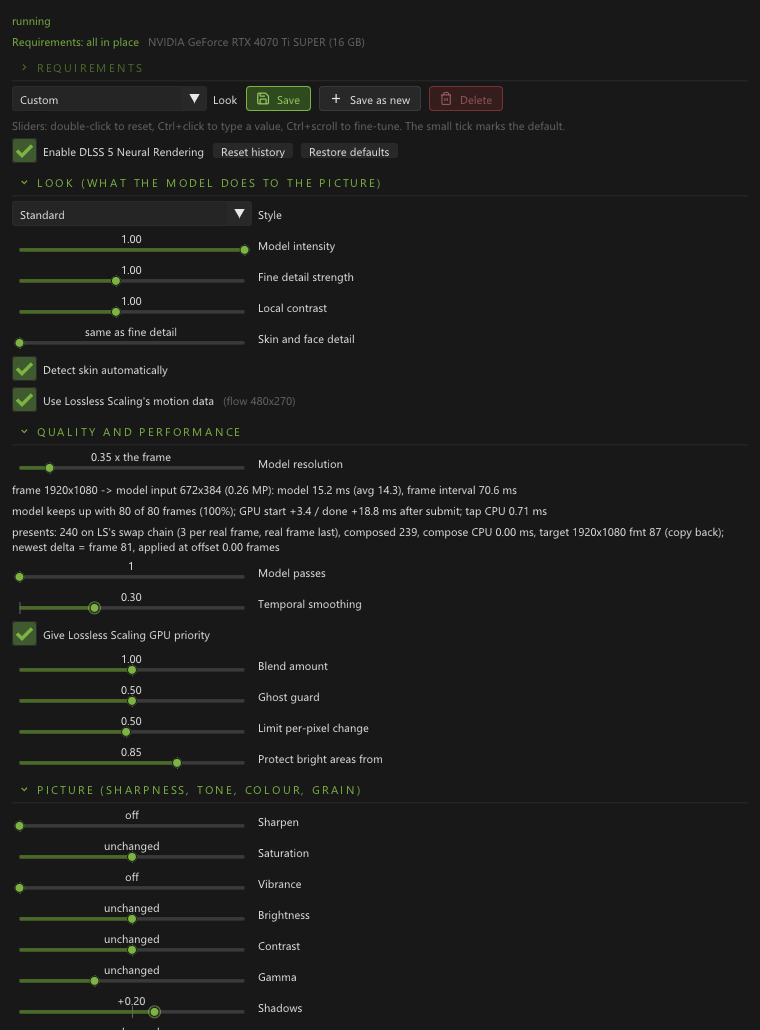
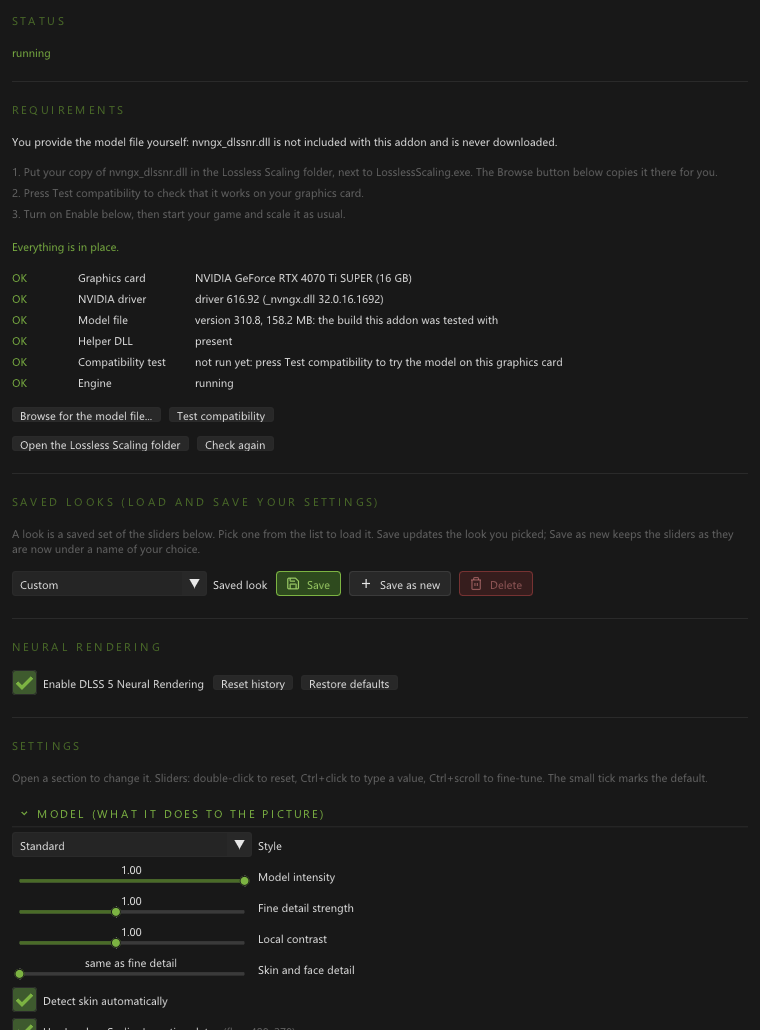
Neural Rendering panel and docs cleanup: titled blocks, always-open requirements, clear save/load, provide-your-own-file notice
Panel: Status, Requirements (always open, numbered instructions, verdict, rows, main actions first), Saved looks
(load and save your settings, explained), Neural Rendering (switch), Settings. Look list labelled Saved look; first
slider section renamed Model. Notice that the user provides nvngx_dlssnr.dll at the top of both READMEs, in
INSTALL.txt and in the addon description. Settings tab: Backup and restore (save and load your settings) with a
description. README pictures regenerated.

diff --git a/addons/DLSS5NR01/src/addon/addon.cpp b/addons/DLSS5NR01/src/addon/addon.cpp
@@ -171,6 +171,13 @@ static void Note(const char* fmt, ...) {
     ImGui::TextWrapped("%s", b);
     ImGui::PopStyleColor();
 }
+// A titled block of the panel: some room, a thin line, the title in the small capitals of the other apps, and a little room under it.
+static void Block(const char* title, bool first = false) {
+    const float u = ImGui::GetFontSize();
+    if (!first) { ImGui::Dummy(ImVec2(0, u * 0.7f)); ImGui::Separator(); ImGui::Dummy(ImVec2(0, u * 0.5f)); }
+    lsp::SectionLabel(title);
+    ImGui::Dummy(ImVec2(0, u * 0.35f));
+}
 static void SetStatus(const char* s) { std::lock_guard<std::mutex> lk(g_statusMu); g_status = s; }
 static std::string GetStatus() { std::lock_guard<std::mutex> lk(g_statusMu); return g_status; }
 
@@ -754,6 +761,7 @@ LSPROXY_EXPORT void AddonRenderSettings() {
     // status
     std::string status = GetStatus(), frameInfo, adapterName; bool hasDisplay;
     { std::lock_guard<std::mutex> lk(g_statusMu); frameInfo = g_frameInfo; adapterName = g_adapterName; hasDisplay = g_hasDisplay; }
+    Block("Status", true);
     if (g_killed) { ImGui::PushStyleColor(ImGuiCol_Text, lsp::theme::V(lsp::theme::kDanger)); ImGui::Text("DISABLED: %s", g_killReason.c_str()); ImGui::PopStyleColor(); ImGui::SameLine(); if (ImGui::SmallButton("Re-arm")) { g_killed = false; g_watchdogHits = 0; g_watchdogKill = false; g_rearms = 0; } Tip("Turn Neural Render back on after it switched itself off. If it switches off again, the reason above is still true."); }
     else { ImGui::PushStyleColor(ImGuiCol_Text, g_nrRuns ? lsp::theme::V(lsp::theme::kAccent) : lsp::theme::V(lsp::theme::kWarn)); ImGui::Text("%s", status.c_str()); ImGui::PopStyleColor(); }
     if (g_engine.IsFailed()) { ImGui::TextColored(lsp::theme::V(lsp::theme::kDanger), "engine: %s", g_engine.Stats().lastError); ImGui::SameLine(); if (ImGui::SmallButton("Retry engine")) { g_engineLuidValid = false; if (g_tapLuidValid) StartEngine(g_tapLuid); } Tip("Try to start the DLSS model again on the current graphics card."); }
@@ -761,25 +769,27 @@ LSPROXY_EXPORT void AddonRenderSettings() {
         bool have; { std::lock_guard<std::mutex> lk(g_reqMu); have = g_reqHave; }
         const bool failed = g_engine.IsFailed();
         const req::Report rep = RequirementsNow(failed, g_engine.IsReady(), g_nrRuns > 0, g_engine.Stats().lastError);
-        // One line that is always there, even while the section below is folded: all in place, a note, or what stops it from running
-        if (!have) ImGui::TextDisabled("Requirements: checking...");
-        else if (rep.overall == req::Level::Missing) { ImGui::PushStyleColor(ImGuiCol_Text, lsp::theme::V(lsp::theme::kDanger)); ImGui::TextWrapped("Neural Rendering cannot run yet. %s", rep.headline.c_str()); ImGui::PopStyleColor(); }
-        else if (rep.overall == req::Level::Note) { ImGui::PushStyleColor(ImGuiCol_Text, lsp::theme::V(lsp::theme::kWarn)); ImGui::TextWrapped("Requirements: %s", rep.headline.c_str()); ImGui::PopStyleColor(); }
-        else { ImGui::TextColored(lsp::theme::V(lsp::theme::kAccent), "Requirements: all in place"); if (!rep.rows.empty()) { ImGui::SameLine(); ImGui::TextDisabled("%s", rep.rows[0].value.c_str()); } }
-        if (lsp::SectionHeader("Requirements", have && rep.overall != req::Level::Ok)) {
-            if (!have) ImGui::TextDisabled("Checking...");
+        Block("Requirements");
+        ImGui::TextWrapped("You provide the model file yourself: nvngx_dlssnr.dll is not included with this addon and is never downloaded.");
+        ImGui::Dummy(ImVec2(0, ImGui::GetFontSize() * 0.25f));
+        Note("1. Put your copy of nvngx_dlssnr.dll in the Lossless Scaling folder, next to LosslessScaling.exe. The Browse button below copies it there for you.");
+        Note("2. Press Test compatibility to check that it works on your graphics card.");
+        Note("3. Turn on Enable below, then start your game and scale it as usual.");
+        ImGui::Dummy(ImVec2(0, ImGui::GetFontSize() * 0.4f));
+        // the verdict, in one line
+        if (!have) ImGui::TextDisabled("Checking...");
+        else if (rep.overall == req::Level::Missing) { ImGui::PushStyleColor(ImGuiCol_Text, lsp::theme::V(lsp::theme::kDanger)); ImGui::TextWrapped("Not ready yet. %s", rep.headline.c_str()); ImGui::PopStyleColor(); }
+        else if (rep.overall == req::Level::Note) { ImGui::PushStyleColor(ImGuiCol_Text, lsp::theme::V(lsp::theme::kWarn)); ImGui::TextWrapped("Ready, with a note. %s", rep.headline.c_str()); ImGui::PopStyleColor(); }
+        else { ImGui::TextColored(lsp::theme::V(lsp::theme::kAccent), "Everything is in place."); }
+        ImGui::Dummy(ImVec2(0, ImGui::GetFontSize() * 0.3f));
+        {   // (always open)
             for (const auto& row : rep.rows) {
                 const ImVec4 col = row.level == req::Level::Ok ? lsp::theme::V(lsp::theme::kAccent) : (row.level == req::Level::Note ? lsp::theme::V(lsp::theme::kWarn) : lsp::theme::V(lsp::theme::kDanger));
                 ImGui::TextColored(col, row.level == req::Level::Ok ? "OK     " : (row.level == req::Level::Note ? "NOTE   " : "MISSING"));
                 ImGui::SameLine(ImGui::GetFontSize() * 5.2f); ImGui::Text("%s", row.label.c_str()); ImGui::SameLine(ImGui::GetFontSize() * 13.0f); ImGui::TextWrapped("%s", row.value.c_str());
                 if (!row.hint.empty()) { ImGui::Indent(ImGui::GetFontSize() * 1.7f); ImGui::PushStyleColor(ImGuiCol_Text, ImGui::GetStyleColorVec4(ImGuiCol_TextDisabled)); ImGui::TextWrapped("%s", row.hint.c_str()); ImGui::PopStyleColor(); ImGui::Unindent(ImGui::GetFontSize() * 1.7f); }
             }
-            if (ImGui::SmallButton("Check again")) ScanRequirements();
-            Tip("Look again at the graphics card, the NVIDIA driver, the model file and the helper DLL. Use it after putting a file in place.");
-            ImGui::SameLine();
-            if (ImGui::SmallButton("Open the Lossless Scaling folder")) ShellExecuteW(nullptr, L"open", g_lsDir.c_str(), nullptr, nullptr, SW_SHOWNORMAL);
-            Tip("Where the model file, nvngx_dlssnr.dll, goes: next to LosslessScaling.exe.");
-            ImGui::SameLine();
+            ImGui::Dummy(ImVec2(0, ImGui::GetFontSize() * 0.4f));
             const bool placing = g_placeBusy.load();
             if (placing) ImGui::BeginDisabled();
             if (ImGui::SmallButton(placing ? "Waiting for the file dialog..." : "Browse for the model file...")) BrowseAndPlace();
@@ -791,11 +801,20 @@ LSPROXY_EXPORT void AddonRenderSettings() {
             if (ImGui::SmallButton(testing ? "Testing..." : "Test compatibility")) RunSelfTestAsync();
             if (testing) ImGui::EndDisabled();
             Tip("Runs the model file once, in a separate program, on your graphics card, and says whether it works there. It uses the graphics card for a few seconds, so do it before you start a game. It cannot take Lossless Scaling down if the model misbehaves.");
+            ImGui::Dummy(ImVec2(0, ImGui::GetFontSize() * 0.15f));
+            if (ImGui::SmallButton("Open the Lossless Scaling folder")) ShellExecuteW(nullptr, L"open", g_lsDir.c_str(), nullptr, nullptr, SW_SHOWNORMAL);
+            Tip("Where the model file, nvngx_dlssnr.dll, goes: next to LosslessScaling.exe.");
+            ImGui::SameLine();
+            if (ImGui::SmallButton("Check again")) ScanRequirements();
+            Tip("Look again at the graphics card, the NVIDIA driver, the model file and the helper DLL. Use it after putting a file in place.");
             { std::string msg; bool ok; { std::lock_guard<std::mutex> lk(g_reqMu); msg = g_placeMsg; ok = g_placeOk; }
               if (!msg.empty()) { ImGui::PushStyleColor(ImGuiCol_Text, ok ? lsp::theme::V(lsp::theme::kAccent) : lsp::theme::V(lsp::theme::kWarn)); ImGui::TextWrapped("%s", msg.c_str()); ImGui::PopStyleColor(); } }
         }
     }
-    // ---- Saved looks, at the top. Pick one to apply it; Save updates it (or asks for a name); Save as new keeps the current sliders under a
+    Block("Saved looks (load and save your settings)");
+    Note("A look is a saved set of the sliders below. Pick one from the list to load it. Save updates the look you picked; Save as new keeps the sliders as they are now under a name of your choice.");
+    ImGui::Dummy(ImVec2(0, ImGui::GetFontSize() * 0.3f));
+    // ---- Saved looks. Pick one to apply it; Save updates it (or asks for a name); Save as new keeps the current sliders under a
     // ---- new name; Delete asks first. A look is the sliders below (model knobs, picture, HUD areas), not the hotkeys or advanced settings.
     {
         static int s_active = -1; static char s_name[48] = ""; static bool s_askSave = false, s_askDelete = false;
@@ -809,7 +828,7 @@ LSPROXY_EXPORT void AddonRenderSettings() {
         const bool modified = s_active >= 0 && datas[s_active] != now;
         const std::string label = s_active >= 0 ? names[s_active] + (modified ? "  (changed)" : "") : std::string("Custom");
         ImGui::SetNextItemWidth(ImGui::GetFontSize() * 13.0f);
-        if (ImGui::BeginCombo("Look", label.c_str())) {
+        if (ImGui::BeginCombo("Saved look", label.c_str())) {
             for (int i = 0; i < (int)names.size(); ++i)
                 if (ImGui::Selectable(names[i].c_str(), i == s_active)) {
                     const float was = c.p.workingScale;
@@ -870,7 +889,7 @@ LSPROXY_EXPORT void AddonRenderSettings() {
         }
     }
 
-    Note("Sliders: double-click to reset, Ctrl+click to type a value, Ctrl+scroll to fine-tune. The small tick marks the default.");
+    Block("Neural Rendering");
     changed |= ImGui::Checkbox("Enable DLSS 5 Neural Rendering", &c.enabled);
     Tip("Master switch. Off = Lossless Scaling runs untouched and the model stops.\nTo compare before and after while playing, use the Before / after hotkey instead: it keeps the model running.");
     ImGui::SameLine(); if (ImGui::SmallButton("Reset history")) g_requestReset = true;
@@ -881,7 +900,10 @@ LSPROXY_EXPORT void AddonRenderSettings() {
     }
     Tip("Put the look and quality sliders back to this addon's defaults. Your presets, hotkeys and the advanced settings are not touched.");
 
-    if (lsp::SectionHeader("Look (what the model does to the picture)", true)) {
+    Block("Settings");
+    Note("Open a section to change it. Sliders: double-click to reset, Ctrl+click to type a value, Ctrl+scroll to fine-tune. The small tick marks the default.");
+    ImGui::Dummy(ImVec2(0, ImGui::GetFontSize() * 0.3f));
+    if (lsp::SectionHeader("Model (what it does to the picture)", true)) {
         // Read by the model at every evaluate: changes apply on the next frame. Ranges are what the model honours
         // (docs/dlssnr-knobs.md): intensity clamps at 1, the local strengths do not clamp at all.
         int style = (int)c.p.style; const char* styles[] = { "Standard", "Natural", "Cinematic" };
@@ -1180,4 +1202,4 @@ LSPROXY_EXPORT uint32_t GetAddonCapabilities() { return LSPROXY_CAP_HAS_SETTINGS
 LSPROXY_EXPORT const char* GetAddonName() { return "DLSS 5 Neural Rendering"; }
 LSPROXY_EXPORT const char* GetAddonVersion() { return "0.2.3"; }
 LSPROXY_EXPORT const char* GetAddonAuthor() { return "andreiday"; }
-LSPROXY_EXPORT const char* GetAddonDescription() { return "Runs NVIDIA DLSS 5 Neural Rendering on Lossless Scaling's real frames on the display GPU and applies the result to every presented frame, without ever making LS wait."; }
+LSPROXY_EXPORT const char* GetAddonDescription() { return "Runs NVIDIA DLSS 5 Neural Rendering on Lossless Scaling's real frames on the display GPU and applies the result to every presented frame, without ever making LS wait. Needs your own copy of nvngx_dlssnr.dll (not included, never downloaded)."; }

diff --git a/addons/DLSS5NR01/tools/addon_host_test.cpp b/addons/DLSS5NR01/tools/addon_host_test.cpp
@@ -124,7 +124,7 @@ int main(int argc, char** argv) {
         if (shotMode) {
             ImGui::SetNextWindowPos(ImVec2(0, 0)); ImGui::SetNextWindowSize(ImVec2((float)shotW, 0.0f));
             ImGui::Begin("Addon Manager", nullptr, ImGuiWindowFlags_NoTitleBar | ImGuiWindowFlags_NoResize | ImGuiWindowFlags_NoMove | ImGuiWindowFlags_AlwaysAutoResize);
-            for (const char* h : { "Look (what the model does to the picture)", "Quality and performance", "Picture (sharpness, tone, colour, grain)", "Keep the HUD untouched", "Compare and hotkeys", "Games (a look per program)", "Frame detection (advanced)", "Technical status", "Advanced" })
+            for (const char* h : { "Model (what it does to the picture)", "Quality and performance", "Picture (sharpness, tone, colour, grain)", "Keep the HUD untouched", "Compare and hotkeys", "Games (a look per program)", "Frame detection (advanced)", "Technical status", "Advanced" })
                 ImGui::GetStateStorage()->SetInt(ImGui::GetID(h), 1);
         } else { ImGui::SetNextWindowSize(ImVec2(900, 700)); ImGui::Begin("Addon Manager"); }
         Render(); ImGui::End();

diff --git a/manager/src/gui/tabs/tab_settings.cpp b/manager/src/gui/tabs/tab_settings.cpp
@@ -92,8 +92,12 @@ void RenderTabSettings(AddonManager* manager) {
     ImGui::Dummy(ImVec2(0, S(4)));
 
     // ---- Backup and restore
-    lsp::SectionLabel("Backup and restore");
+    lsp::SectionLabel("Backup and restore (save and load your settings)");
     ImGui::Dummy(ImVec2(0, S(2)));
+    ImGui::PushStyleColor(ImGuiCol_Text, ImGui::GetStyle().Colors[ImGuiCol_TextDisabled]);
+    ImGui::TextWrapped("Save the settings of this manager and of every addon into one file, and load them back later or on another PC. The addons' own saved looks are kept in the same file.");
+    ImGui::PopStyleColor();
+    ImGui::Dummy(ImVec2(0, S(4)));
     if (lsp::Button("Save settings to a file", lsp::icons::kSave, lsp::ButtonKind::Primary)) {
         std::wstring path;
         SYSTEMTIME t; GetLocalTime(&t);

diff --git a/addons/DLSS5NR01/docs/user-guide.md b/addons/DLSS5NR01/docs/user-guide.md
@@ -37,10 +37,14 @@ To update, replace the two DLLs while Lossless Scaling is closed. To uninstall, 
 
 ### Checking that everything is in place
 
-At the top of the panel, the **Requirements** section lists what Neural Rendering needs and what was found: the NVIDIA graphics card, the NVIDIA
-driver's NGX core (`_nvngx.dll`, found through the driver's registry entry), the model file, this addon's helper DLL and the engine's state. Each
-row is OK, NOTE or MISSING, and a row that is not OK says what to do. It opens by itself when something is missing, and a red line above it says
-what stops Neural Rendering from running. Nothing is loaded or downloaded to do this: it reads file names, sizes and version numbers.
+The panel is laid out in titled blocks, each set off by a line: **Status**, **Requirements**, **Saved looks**, **Neural Rendering** (the on/off switch) and
+**Settings** (the sections with the sliders).
+
+The **Requirements** block is always open. It starts with the one thing you have to do yourself: provide your own copy of `nvngx_dlssnr.dll`, which is not included and is
+never downloaded. Three numbered steps say where it goes and what to press. Below them a one-line verdict ("Everything is in place", "Ready, with a note", or "Not ready
+yet" with the reason) is followed by one row for each thing Neural Rendering needs: the NVIDIA graphics card, the NVIDIA driver's NGX core (`_nvngx.dll`, found through
+the driver's registry entry), the model file, this addon's helper DLL, the compatibility test and the engine's state. Each row is OK, NOTE or MISSING, and a row that is
+not OK says what to do. Nothing is loaded or downloaded to check: it reads file names, sizes and version numbers.
 
 - **Model file**: a copy of a different version, or of a different size than the one this addon was tested with (310.8, 158.2 MB), is a NOTE, not an
   error: it may well work. A file far smaller than the model (under 20 MB) is treated as missing, since it cannot be the model.
@@ -60,7 +64,12 @@ what stops Neural Rendering from running. Nothing is loaded or downloaded to do 
 
 This addon does not download the model file, and this project does not say where to get it.
 Settings live in Echo Addon Manager's `addons\config.json` under the key `DLSS5NR01`; delete
-that block to reset them.
+that block to reset them. To keep or move all your settings, use *Save settings to a file* and *Load settings from a file* on the manager's Settings tab.
+
+### Saved looks (load and save your settings)
+
+A look is a saved set of the sliders below it. The **Saved look** list loads one when you pick it; **Save** updates the look you picked; **Save as new** keeps the sliders as they
+are now under a name you choose; **Delete** removes the picked look after asking. The *Next preset* hotkey cycles through your looks in the game.
 
 ## First run
 
@@ -97,7 +106,7 @@ defaults without touching presets, hotkeys or the advanced settings.
 Everything applies on the next frame. Only *Working scale* re-creates the model's feature, which
 takes a moment and resets its temporal history.
 
-### Look (what the model does to the picture)
+### Model (what it does to the picture)
 
 | Control | Default | What it does |
 |---|---|---|

diff --git a/addons/DLSS5NR01/README.md b/addons/DLSS5NR01/README.md
@@ -1,5 +1,10 @@
 # DLSS 5 Neural Rendering (DLSS5NR01)
 
+> [!IMPORTANT]
+> **You provide the model file yourself.** This addon needs your own copy of `nvngx_dlssnr.dll`. It is **not included**, it is **never downloaded**, and this project does not say
+> where to get it. Put your copy in the Lossless Scaling folder, next to `LosslessScaling.exe` (the addon's **Browse for the model file...** button copies it there for you),
+> then press **Test compatibility** in the addon's panel.
+
 An addon for Echo Addon Manager, the addon manager for Lossless Scaling, that runs NVIDIA DLSS 5
 Neural Rendering (DLSSNR) on the frames Lossless Scaling captures and applies the result to every
 frame Lossless Scaling presents, real and generated. Nothing is injected into the game. No ReShade.
@@ -38,9 +43,11 @@ Documentation: [User guide](docs/user-guide.md) · [Architecture](docs/architect
    ```
    <Lossless Scaling>\addons\DLSS5NR01\DLSS5NR01.dll
    <Lossless Scaling>\addons\DLSS5NR01\nvngx.dll_dlss5nr01.dll
+   <Lossless Scaling>\addons\DLSS5NR01\nr_selftest.exe
    <Lossless Scaling>\addons\DLSS5NR01\addon.json
    ```
-2. Put `nvngx_dlssnr.dll` in the Lossless Scaling folder (next to `LosslessScaling.exe`).
+2. Put your own copy of `nvngx_dlssnr.dll` in the Lossless Scaling folder (next to `LosslessScaling.exe`), or open the addon's panel and press
+   *Browse for the model file...* to copy it there. Then press *Test compatibility*.
 3. Start Lossless Scaling, open Echo Addon Manager, enable *DLSS 5 Neural Rendering*
    and open its settings.
 4. Start scaling a game. The status line goes from *waiting for LSFG dispatches* to *engine:

diff --git a/CHANGELOG.md b/CHANGELOG.md
@@ -1,5 +1,14 @@
 # Changelog
 
+## Unreleased
+
+- **The Neural Rendering panel is reorganised** into titled blocks with a line between them: **Status**, **Requirements**, **Saved looks (load and save your settings)**, **Neural Rendering**
+  (the on/off switch) and **Settings** (the sections with the sliders). Requirements is always open now. It starts with what you have to do yourself, providing your own copy of
+  `nvngx_dlssnr.dll`, in three numbered steps, then a one-line verdict, the rows, and the actions with the two main ones first (Browse, Test compatibility). Saved looks says what a look
+  is and what Save, Save as new and Delete do; its list is now labelled *Saved look*. The first slider section is *Model (what it does to the picture)*, so it no longer sounds like a saved look.
+- **You provide the model file yourself, said up front:** an important notice at the top of the README and of the addon's README, in the release's `INSTALL.txt`, and in the addon's description on its card.
+- **Settings tab:** the backup section is now *Backup and restore (save and load your settings)* with a line saying what it keeps, so it is clear that all addon settings and saved looks travel in one file.
+
 ## 0.2.3 (2026-09-21)
 
 Upgrading from 0.2.2: copy the new files over the old ones. Nothing to migrate. `addons\DLSS5NR01` gains one file, `nr_selftest.exe`. If your security software

diff --git a/README.md b/README.md
@@ -2,6 +2,12 @@
 
 <p align="center"><b>The addon manager for Lossless Scaling.</b><br>Install, switch on and tune addons from one window, and watch your frame rate and GPU while you play.</p>
 
+> [!IMPORTANT]
+> **DLSS 5 Neural Rendering needs a file you provide yourself.** It needs your own copy of `nvngx_dlssnr.dll`. That file is **not included** in this
+> download, this project **does not download it**, and it does not say where to get it. Put your copy in the Lossless Scaling folder, next to
+> `LosslessScaling.exe` (the addon's **Browse for the model file...** button copies it there for you), then press **Test compatibility** in the addon's panel.
+> Everything else here, including the manager, ReShade input passthrough and Windowed mode, works without it.
+
 Echo Addon Manager loads alongside [Lossless Scaling](https://store.steampowered.com/app/993090/Lossless_Scaling/) and gives it a proper addon system: one window
 to install, switch on and tune addons, a live view of frame time and GPU load while a game runs, and one-click backup of every setting. It ships with the
 **DLSS 5 Neural Rendering** addon and two built-in features, **ReShade input passthrough** and **Windowed mode**, and it is free and MIT-licensed. It is an unofficial project, not

diff --git a/addons/DLSS5NR01/CHANGELOG.md b/addons/DLSS5NR01/CHANGELOG.md
@@ -1,5 +1,11 @@
 # Changelog
 
+## Unreleased
+
+- Panel reorganised into titled, separated blocks: Status, Requirements (always open, with numbered instructions, a one-line verdict, the rows, and the main actions first), Saved looks (load and
+  save your settings, with an explanation), Neural Rendering (the on/off switch) and Settings. The look list is labelled *Saved look*, and the first slider section is now *Model (what it does to
+  the picture)*. The provide-your-own-model-file notice is at the top of the README and in the addon's description.
+
 ## 0.2.3 (2026-09-21)
 
 - New **compatibility self-test**: `nr_selftest.exe` (in the addon folder) loads the model in its own process, creates feature 18 on the NVIDIA card at 1280x720, evaluates a
